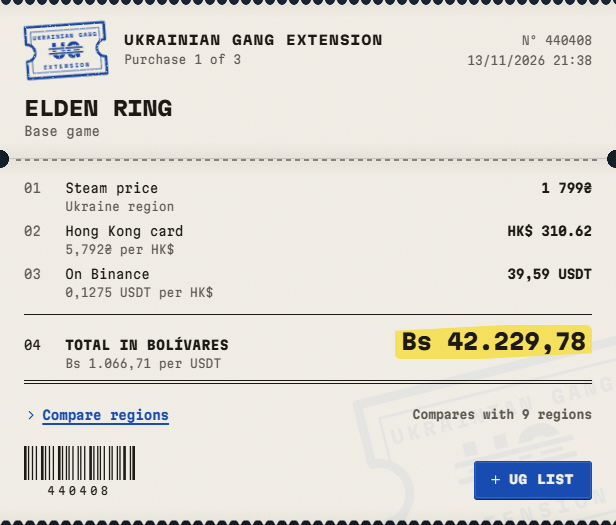
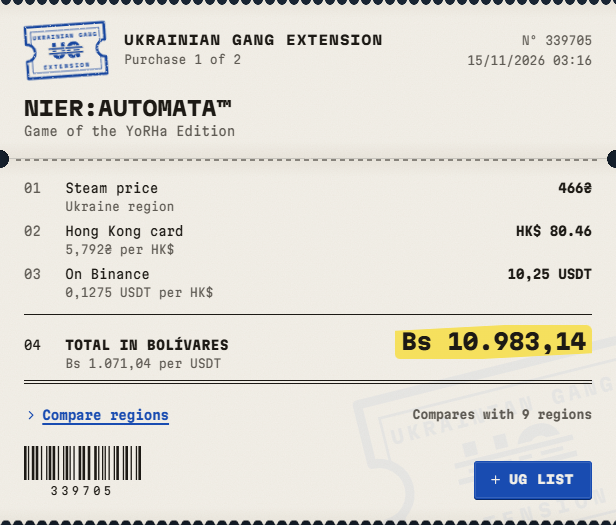
steam-precios-ug: capture the README images from the live store
NieR:Automata on the game page, the same receipt alone, the region comparison, a NieR search and the UG list with two games. Wide images are one 4:3 crop of the store, so the section is not a pile of mixed sizes. npm run docs now drives Chrome and the extension instead of copying the end-to-end screenshots.

diff --git a/extensions/steam-precios-ug/README.md b/extensions/steam-precios-ug/README.md
@@ -2,11 +2,9 @@
 
 A browser extension for the **Ukrainian Gang** Steam family group. They live in Venezuela and their Steam accounts are set to the Ukraine region, so they pay for Hong Kong Steam gift cards with USDT bought on Binance P2P with bolívares. Next to every store price, the extension shows what it costs in ₴, in HK$ (to know which gift card to buy), in USDT and in bolívares at the Binance P2P rate.
 
-Version 0.2.0. Works on `store.steampowered.com`, without signing in and with any VPN. **The UI is in English by default, with Spanish in the settings page**, because the people who use it speak Spanish.
+Version 0.2.1. Works on `store.steampowered.com`, without signing in and with any VPN. **The UI is in English by default, with Spanish in the settings page**, because the people who use it speak Spanish.
 
-| Game page | Search results | Shopping list |
-|-----------|----------------|---------------|
-| ![Receipt under each edition](docs/ticket.png) | ![Stub next to each price](docs/search.png) | ![Popup with the list](docs/popup.png) |
+![A receipt under the YoRHa Edition of NieR:Automata](docs/hero.png)
 
 ## What it does
 
@@ -32,7 +30,27 @@ Version 0.2.0. Works on `store.steampowered.com`, without signing in and with an
   - suggest gift cards (off by default);
   - the language: English (default) or Spanish.
 
-| Settings, in English | The same page in Spanish |
+## Screenshots
+
+**The receipt.** Under the YoRHa Edition of NieR:Automata, the price in ₴, the Hong Kong card, the USDT on Binance and the total in bolívares, with the rate used on every line.
+
+![The receipt under the YoRHa Edition](docs/ticket.png)
+
+**Compare regions.** The same edition in the regions chosen in the settings, in USD and against Ukraine.
+
+![The region comparison, open on the receipt](docs/regions.png)
+
+**Stubs in search.** Bs and HK$ next to every paid price; the full breakdown shows on hover.
+
+![Stubs in a NieR search](docs/search.png)
+
+**The UG list.** The total in the four currencies, the wallet balance and the summary for WhatsApp.
+
+![The UG list popup](docs/popup.png)
+
+**Settings**, in English and in Spanish:
+
+| English | Español |
 |---|---|
 | ![The settings page](docs/settings.png) | ![The settings page in Spanish](docs/settings-spanish.png) |
 
@@ -78,7 +96,7 @@ Steam changes its HTML. When something stops showing up, the fix goes in `src/co
 - **Page type:** the path `/app/<id>`, `/sub/<id>` or `/bundle/<id>`.
 - **Purchasable editions:** every `.game_area_purchase_game` with `input[name="subid"]` (package) or `input[name="bundleid"]` (bundle). The receipt goes after `.game_area_purchase_game_wrapper`.
 - **Edition name:** the block title, such as `Buy «ELDEN RING Shadow of the Erdtree Edition»`, without the verb and without the "BUNDLE (?)" label. If it starts with the game name (`#appHubAppName`), the receipt takes the game name and the rest is the edition (the base game when nothing is left). Otherwise, as with a package of other games ("Grand Theft Auto: The Trilogy"), the receipt takes the block title and, as edition, how many games it includes, counted from `.package_contents`.
-- **Subscriptions:** the block has the `game_area_purchase_game_dropdown_subscription` class or a `.game_purchase_subscription` paragraph with the billing period ("every 1 month(s)").
+- **Subscriptions:** a `.game_purchase_subscription` paragraph with the billing period ("every 1 month(s)", "/ month", "auto-renewed"), or the `game_area_purchase_game_dropdown_subscription` class next to that text. The class alone is not enough: Steam also puts it on bundles.
 - **Price on the page:** `[data-price-final]` in cents, but only when the text has `₴`. Otherwise the price comes from the Steam API, so it works the same with a VPN or with the store in another currency.
 - **Game pages without editions** (free, unavailable or coming soon): the app price is requested and the receipt goes at the start of `#game_area_purchase`.
 - **Lists:** every `.discount_final_price` or `.game_area_dlc_price` inside an element with `data-ds-itemkey` (`App_620`, `Sub_440408`, `Bundle_232`), `data-ds-appid`, `data-ds-packageid` or `data-ds-bundleid`. Prices of 0 or without digits ("Free") get no stub. A `MutationObserver` covers what Steam loads later, such as infinite scroll in search.
@@ -112,7 +130,7 @@ The end-to-end test uses the installed Chrome; `CHROME_PATH` picks another one, 
 - an axe accessibility audit (WCAG 2.2 AA) of the receipt, the popup and the settings page;
 - no extension errors in the console.
 
-`npm run docs` rebuilds the images in `docs/` from the latest end-to-end screenshots.
+`npm run docs` rebuilds the images in `docs/` from the live store with the extension loaded: NieR:Automata, a NieR search and both languages of the settings page. It needs network access and the installed Chrome, and leaves the shopping list in a temporary profile.
 
 ## Files
 
